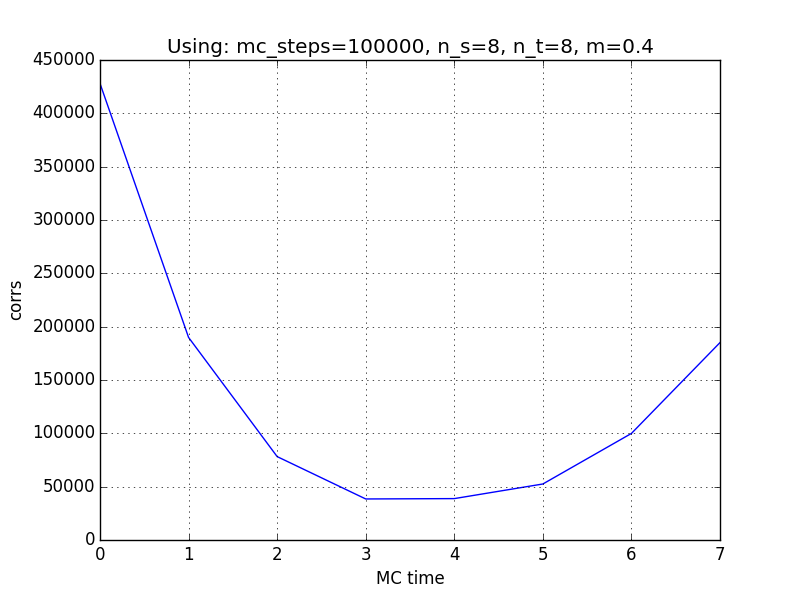
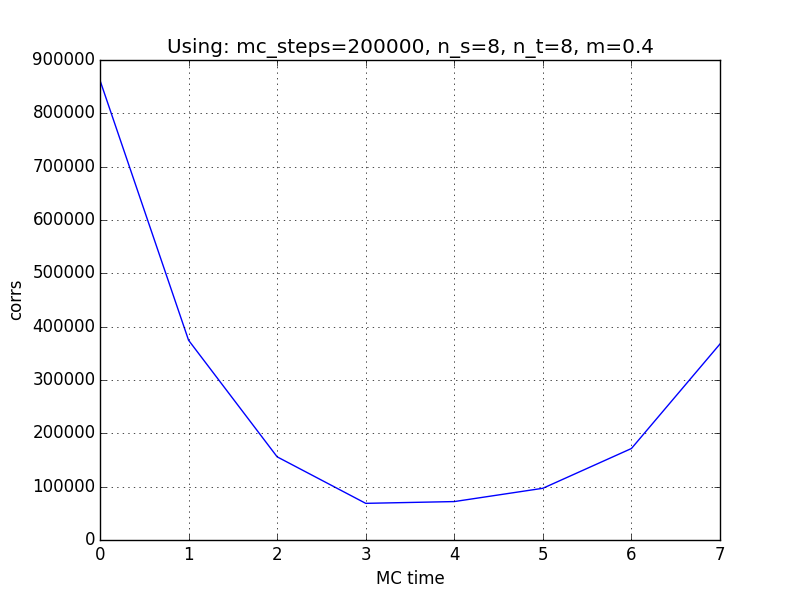
Reduction of memory footprint

diff --git a/exc_3/simulation.py b/exc_3/simulation.py
@@ -1,6 +1,6 @@
 import numpy as np
 
-from math import exp, log
+from math import exp, log, acosh
 import matplotlib.pyplot as plt
 
 
@@ -23,6 +23,9 @@ spatial (self.n_s), positive to the right << direction 1-hat >>
 class Simulation:
 
     phi = []
+    #phi_buff_old = []
+    #phi_buff_new = []
+    phi_buff = []
     S_E = []
     # phi in momentum, corresponding to a FT of phi
     phi_momentum = []
@@ -40,7 +43,8 @@ class Simulation:
         self.gauss_var = 0.1
 
         # Initial set of field values through Gaussian prior distribution
-        self.phi.append( np.random.normal(0, self.gauss_var, (self.n_s, self.n_t)) )
+        #self.buff_phi.append( np.random.normal(0, self.gauss_var, (self.n_s, self.n_t)) )
+        self.phi_buff = np.random.normal(0, self.gauss_var, (self.n_s, self.n_t))
 
 
     def compute_delta_action(self, phi, phi_val_prime, x, t):
@@ -68,20 +72,23 @@ class Simulation:
     def run_one_step(self, x, t):
         
         # 1. proposal
-        phi_prop = np.random.normal( self.phi[len(self.phi)-1][x,t], self.gauss_var, 1 )[0]
+        phi_prop = np.random.normal( self.phi_buff[x,t], self.gauss_var, 1 )[0]
         
         # 2. compute the change in action
-        delta_S_E = self.compute_delta_action( self.phi[len(self.phi)-1], phi_prop, x, t )
+        delta_S_E = self.compute_delta_action( self.phi_buff, phi_prop, x, t )
 
         # 3. acceptance ratio
         acc_ratio = exp( -delta_S_E )
 
         # 4. accept or reject
-        self.phi.append( np.copy(self.phi[len(self.phi)-1]) )
+        #self.buff_phi.append( np.copy(self.buff_phi[len(self.buff_phi)-1]) )
         u = np.random.uniform(size=1)[0]
         if u <= acc_ratio:
             #self.S_E.append( delta_S_E )
-            self.phi[len(self.phi)-1][x,t] = phi_prop
+            #self.buff_phi[len(self.buff_phi)-1][x,t] = phi_prop
+            #self.phi_buff_new = np.copy( self.phi_buff_old )
+            #self.phi_buff_new[x,t] = phi_prop
+            self.phi_buff[x,t] = phi_prop
         #else:
         #    #self.x.append( np.copy( self.x[len(self.x)-1] ) )
         #    #self.S_E.append( self.S_E[len(self.S_E)-1] )
@@ -94,17 +101,32 @@ class Simulation:
         mc_steps = params['mc_steps']
         skip_length = params['skip_length']
 
-        for i in range(mc_steps-1):
+        # run thermalization
+        for i in range(burn_in):
             t = i%self.n_s
             x = (i/self.n_s)%self.n_t
             self.run_one_step(x,t)
 
-        # applying burn-in and reducing correlation
-        y = []
-        for i in range(burn_in, mc_steps, skip_length):
-            y.append( np.copy(self.phi[i]) )
+        # discard burn-in
+        #self.phi = [self.buff_phi[len(self.buff_phi)-1]]
+        #self.buff_phi = []
+        #self.buff_phi.append( self.phi[len(self.phi)-1] )
 
-        self.phi = y
+        for i in range(mc_steps-burn_in):
+            t = i%self.n_s
+            x = (i/self.n_s)%self.n_t
+            self.run_one_step(x,t)
+            
+            # save configs
+            if i%skip_length==0:
+                self.phi.append( np.copy(self.phi_buff) )
+
+        # applying burn-in and reducing correlation
+        #y = []
+        #for i in range(burn_in, mc_steps, skip_length):
+        #    y.append( np.copy(self.phi[i]) )
+
+        #self.phi = y
         self.phi = np.array(self.phi)
 
 
@@ -152,12 +174,18 @@ class Simulation:
         #print(self.corrs)
 
 
-    def compute_eff_energies(self):
+    def compute_eff_energies(self, eff_en_type):
 
         for k in range(self.corrs.shape[0]):
             self.eff_energies.append( [] )
-            for j in range(self.corrs.shape[1]-1):
-                self.eff_energies[len(self.eff_energies)-1].append( log( self.corrs[k,j]/self.corrs[k,j+1] ) )
+            for j in range(1,self.corrs.shape[1]-1):
+
+                if eff_en_type=="exp":
+                    self.eff_energies[len(self.eff_energies)-1].append( log( self.corrs[k,j]/self.corrs[k,j+1] ) )
+                elif eff_en_type=="3pt":
+                    self.eff_energies[len(self.eff_energies)-1].append( acosh( (self.corrs[k,j+1]+self.corrs[k,j-1]) / (2*self.corrs[k,j]) ) )
+                else:
+                    raise Exception("Effective energy type not available.")
 
         self.eff_energies = np.array(self.eff_energies)
 

diff --git a/exc_3/main.py b/exc_3/main.py
@@ -11,7 +11,7 @@ sim = Simulation(sim_params)
 
 run_params = dict()
 run_params['burn_in'] = 3000
-run_params['mc_steps'] = 10003000
+run_params['mc_steps'] = 20003000
 run_params['skip_length'] = 100
 
 # Generate Markov Chain configurations by using Metropolis
@@ -20,7 +20,7 @@ sim.run(run_params)
 # post-processing
 sim.apply_ft()
 sim.compute_corrs()
-sim.compute_eff_energies()
+sim.compute_eff_energies("exp")
 
 # displaying results
 sim.plot("corrs", "corrs.png", run_params)
